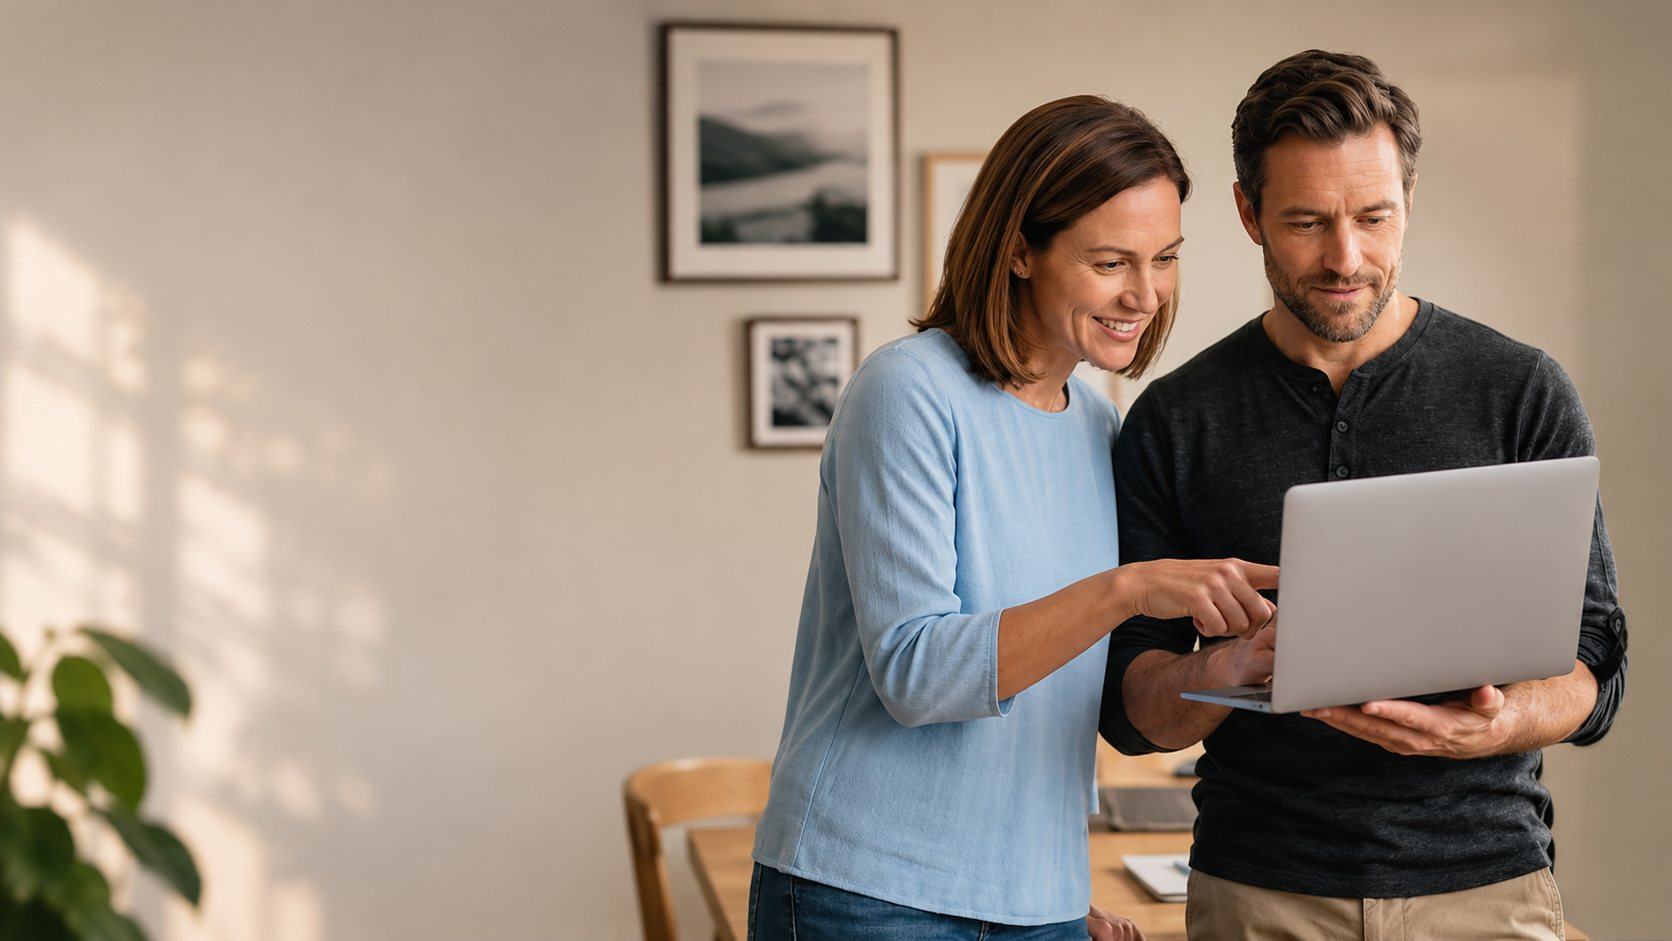
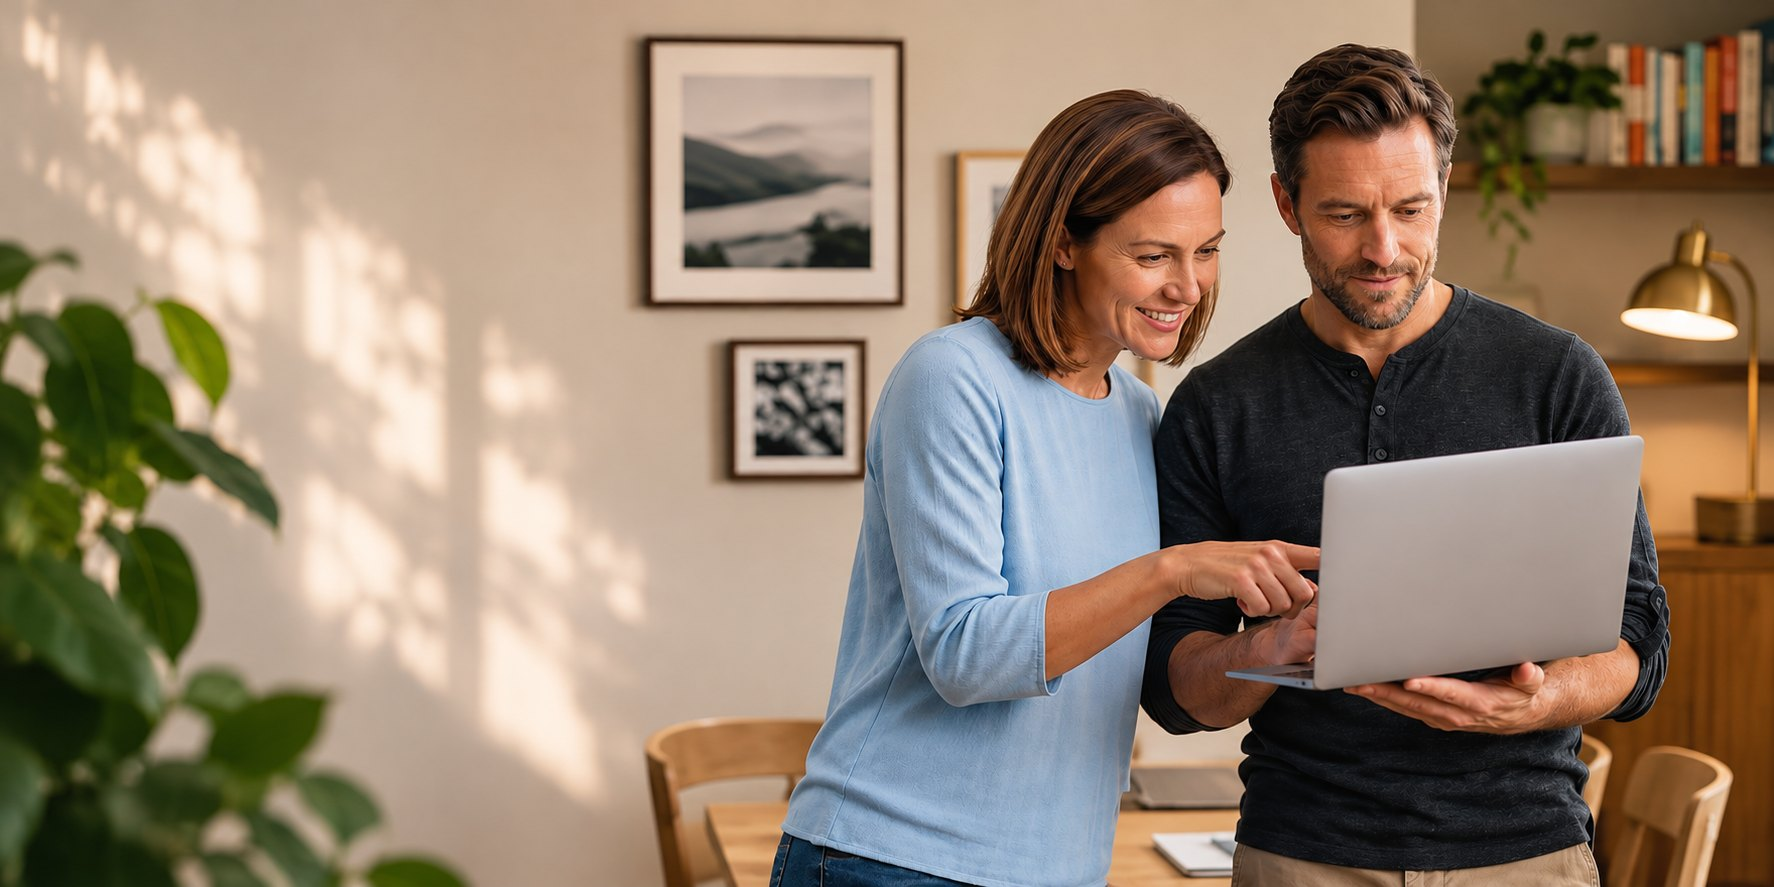
Use the higher-quality home-office shot in the hero
Desktop: full 1774x887 frame. Mobile: 887x887 crop centred on the two people.

diff --git a/index.html b/index.html
@@ -55,8 +55,8 @@ Jobescape</a>
 
     <div class="media">
       <div class="bleed"><picture>
-        <source media="(min-width:768px)" srcset="images/hero-desktop.jpg" width="1672" height="941">
-        <img src="images/hero-mobile.jpg" alt="Two colleagues in their forties looking at a laptop together and smiling" width="941" height="941" fetchpriority="high">
+        <source media="(min-width:768px)" srcset="images/hero-desktop.jpg" width="1774" height="887">
+        <img src="images/hero-mobile.jpg" alt="Two colleagues in their forties looking at a laptop together and smiling" width="887" height="887" fetchpriority="high">
       </picture></div>
       <a class="scroll" href="#next">Scroll down <svg class="i" aria-hidden="true" xmlns="http://www.w3.org/2000/svg" fill="none" viewBox="0 0 16 16"><path fill="currentColor" fill-rule="evenodd" d="M8 1.25a.75.75 0 0 1 .75.75v10.19l2.72-2.72a.75.75 0 1 1 1.06 1.06l-4 4a.75.75 0 0 1-1.06 0l-4-4a.75.75 0 1 1 1.06-1.06l2.72 2.72V2A.75.75 0 0 1 8 1.25" clip-rule="evenodd"/></svg></a>
     </div>
